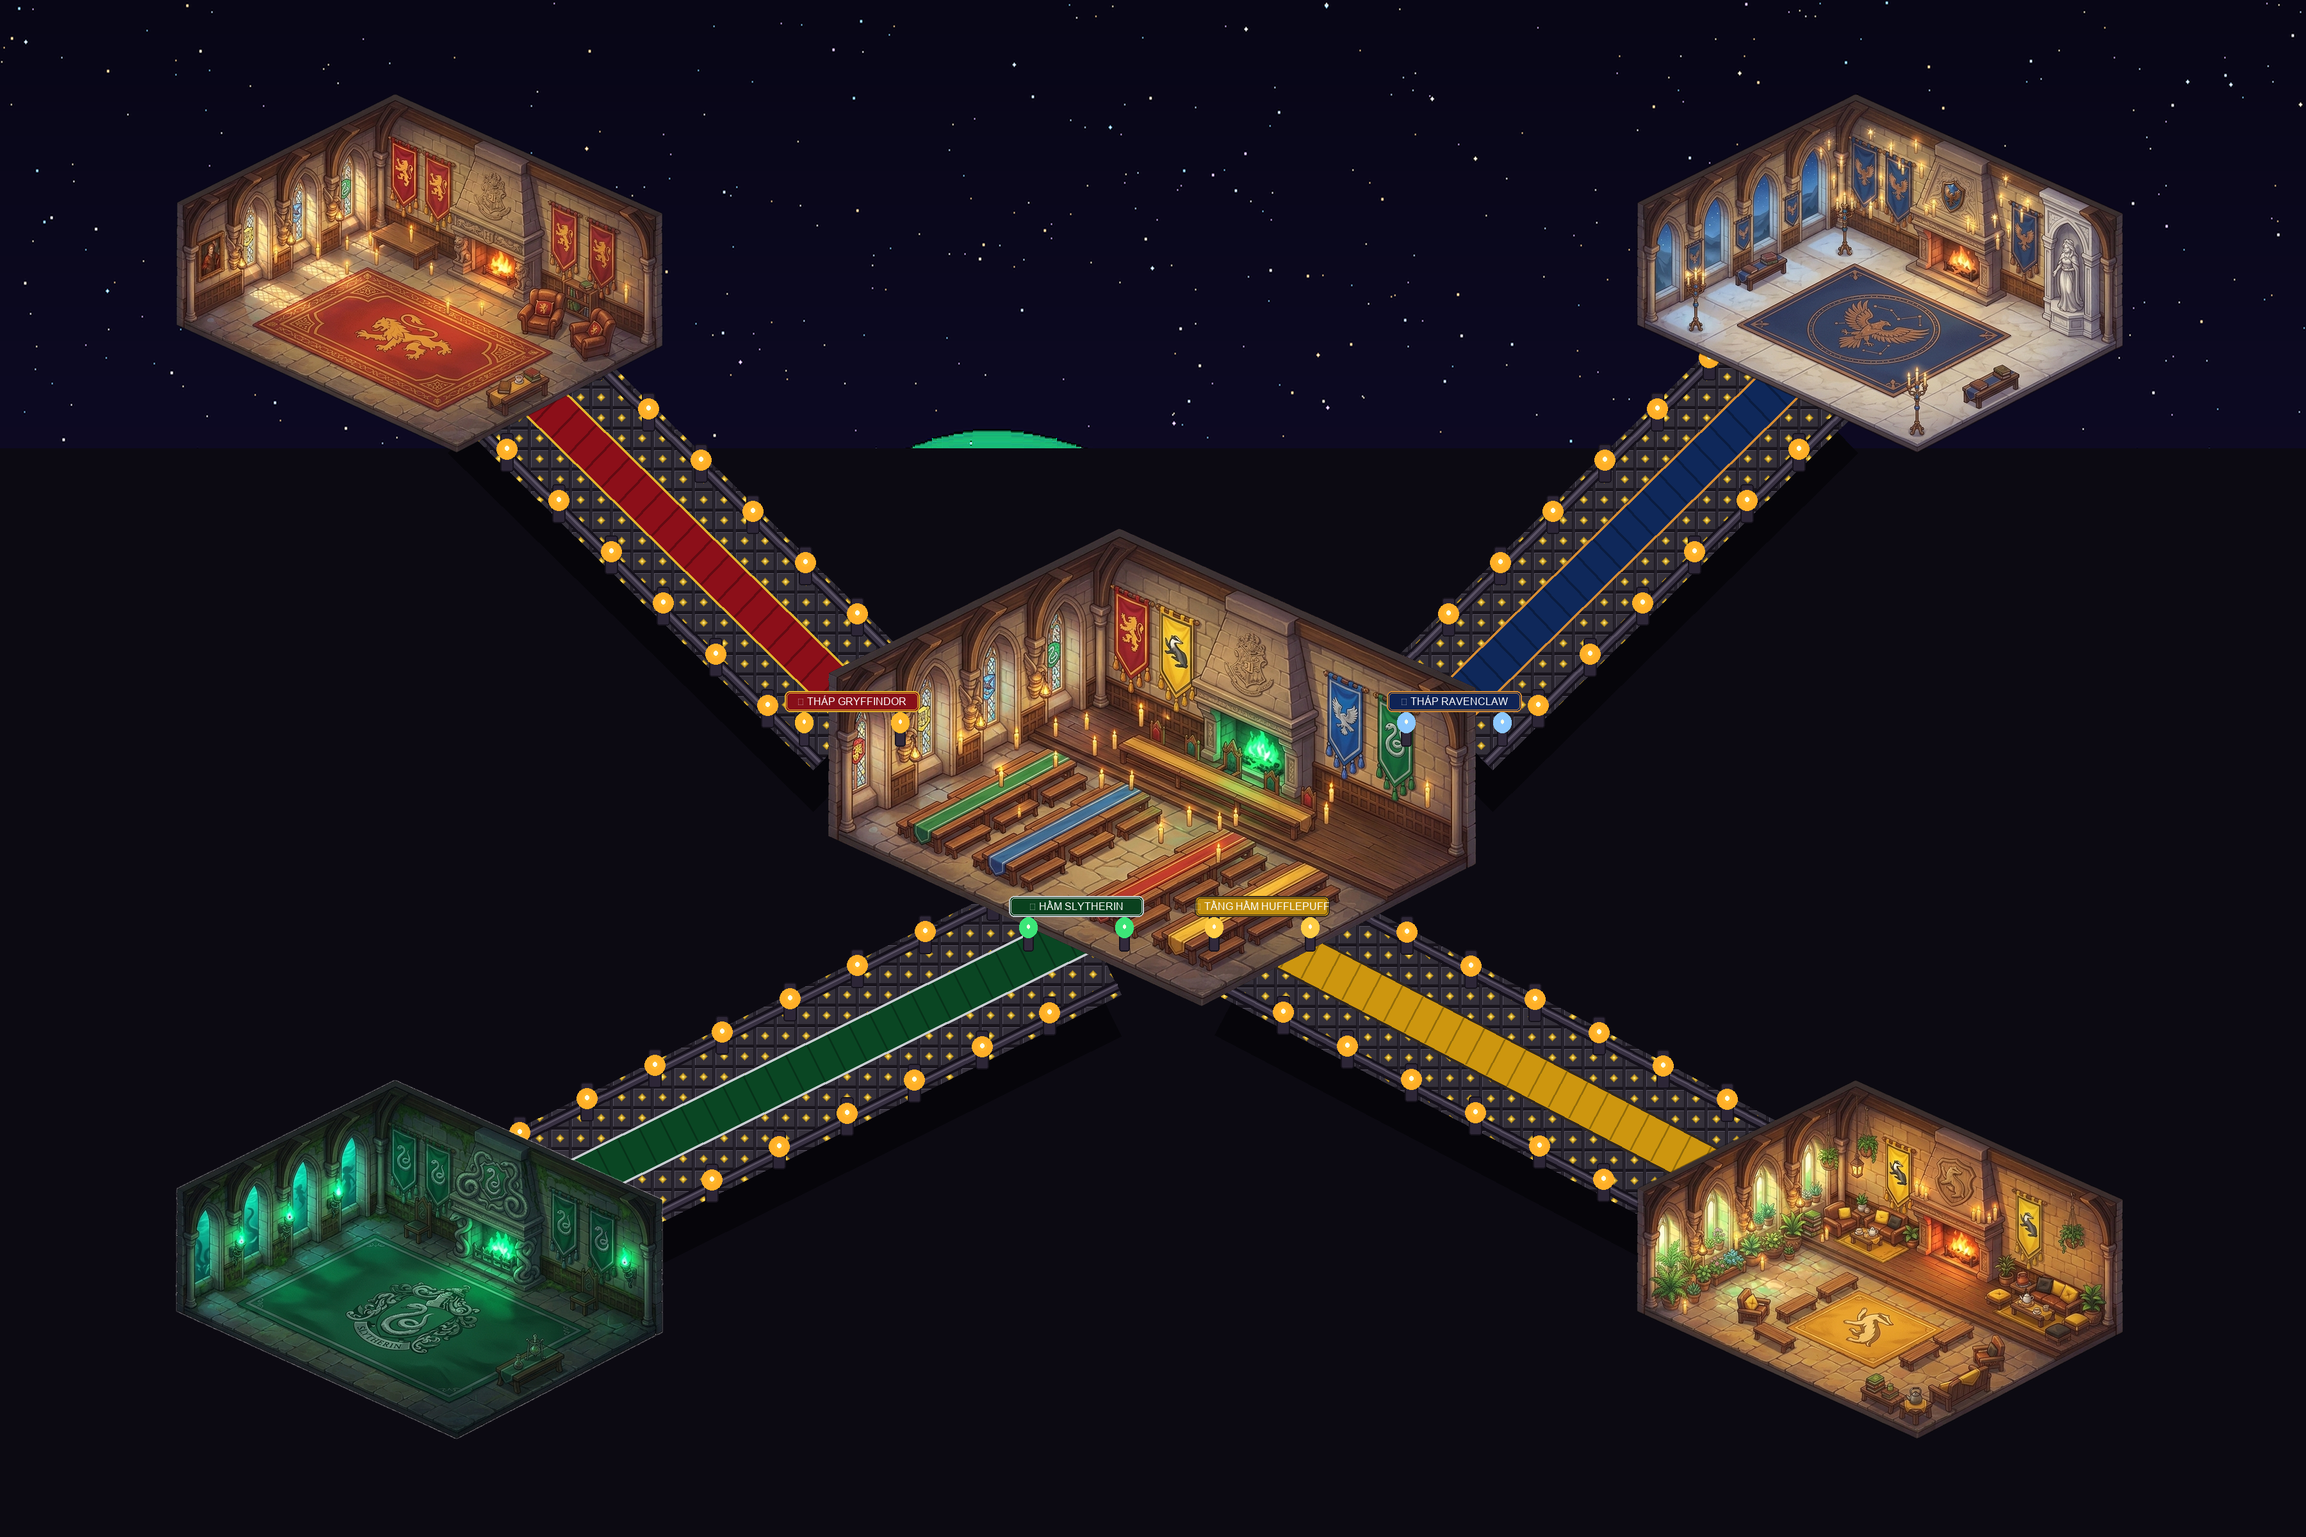
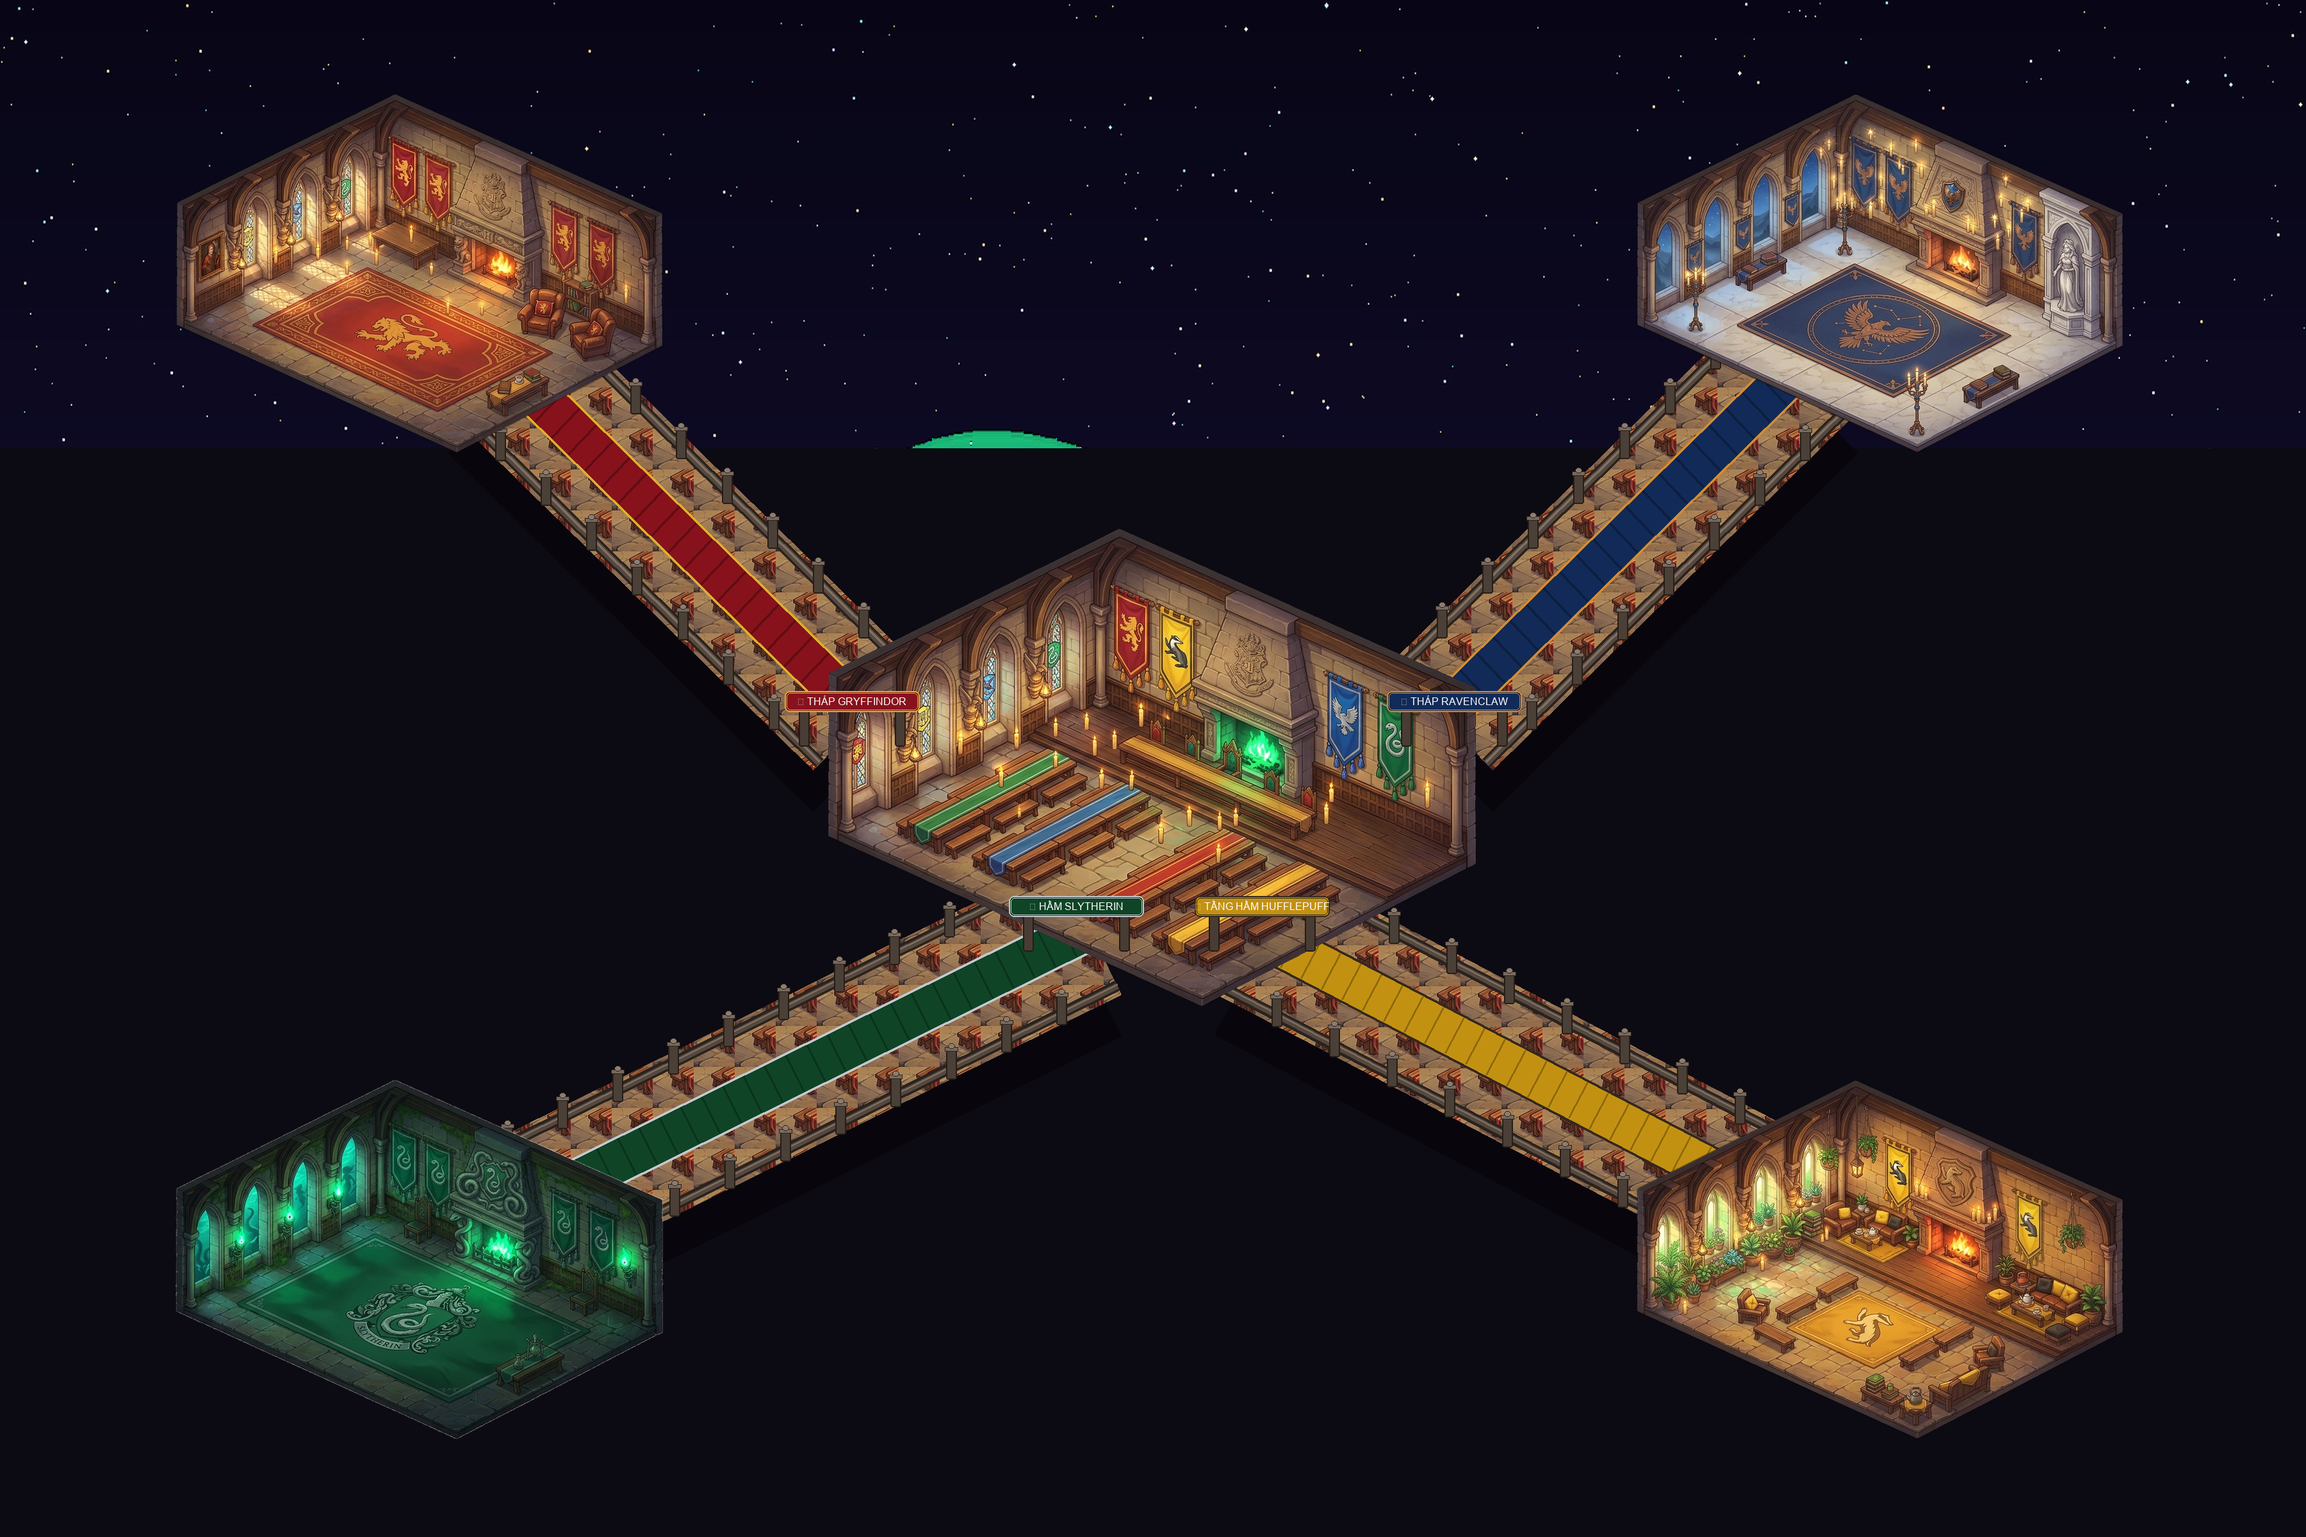
style: unify corridor stone art with Great Hall floor and remove all corridor candles

diff --git a/scripts/build_hub_and_spoke_final.py b/scripts/build_hub_and_spoke_final.py
@@ -1,10 +1,9 @@
 """
 Build Hub & Spoke Hogwarts Castle World Map (3600 x 2400 px)
-- Hub (Center, 100% scale): Great Hall (1376 x 768) - pristine genuine alpha mask, zero black cuts.
-- Spokes (4 Wings, 75% scale): Gryffindor (Top-Left), Slytherin (Bottom-Left),
-  Ravenclaw (Top-Right), Hufflepuff (Bottom-Right).
-- Connected by grand stone archways and flagstone corridors that penetrate deeply into each room.
-- Zero black gaps, zero disconnections, authentic medieval gothic aesthetic.
+- Floor & architecture: 100% unified with Great Hall & 4 House Common Rooms (sampled directly from castle stone).
+- Removed all corridor candles/torches per user request.
+- Clean medieval gothic stone balustrades, carved stone pillars & finials.
+- Fully connected: corridors penetrate deeply into each room, zero black voids.
 """
 
 import os
@@ -38,13 +37,12 @@ def get_clean_room(img, is_white=False):
     arr = np.array(rgba)
     
     if is_white:
-        # Slytherin has white background [250..255]
+        # Slytherin room has white background [225..255]
         mask = ~((arr[:, :, 0] > 225) & (arr[:, :, 1] > 225) & (arr[:, :, 2] > 225))
     else:
-        # Check if alpha channel already exists and is non-trivial
+        # If alpha already present and non-trivial
         if arr.shape[2] == 4 and np.any(arr[:, :, 3] == 0):
             return rgba
-        # Otherwise filter out pure black void
         mask = (arr[:, :, 0] > 14) | (arr[:, :, 1] > 14) | (arr[:, :, 2] > 14)
         
     mask_im = Image.fromarray((mask * 255).astype(np.uint8)).filter(ImageFilter.GaussianBlur(1.0))
@@ -52,7 +50,7 @@ def get_clean_room(img, is_white=False):
     return rgba
 
 def build_map():
-    print(f"Building Fully Connected Hogwarts Castle Map ({CW} x {CH} px)...")
+    print(f"Building Unified Hogwarts Castle Map ({CW} x {CH} px)...")
 
     # 1. Base Canvas with Starry Night Sky
     bg_night_path = os.path.join(BASE_DIR, 'client/public/assets/background/backdrop_night.png')
@@ -69,10 +67,10 @@ def build_map():
         alpha = int(min(255, (y - 700) / 600 * 240 + 15))
         draw.rectangle([0, y, CW, y + 1], fill=(12, 10, 18, alpha))
 
-    # 2. Flagstone Tile from FloorAndGround.png
-    fg_path = os.path.join(BASE_DIR, 'client/public/assets/map/FloorAndGround.png')
-    fg = Image.open(fg_path)
-    flag_tile = fg.crop((960, 192, 992, 224)).convert('RGBA')
+    # 2. Sample Authentic Stone Floor Directly from Great Hall
+    gh_raw = Image.open(os.path.join(BASE_DIR, 'client/public/assets/map/great_hall_25d.png')).convert('RGBA')
+    # 64x64 clean stone flagstone tile from Great Hall floor
+    gh_tile = gh_raw.crop((540, 580, 604, 644)).convert('RGBA')
 
     # Load TrueType font for Vietnamese support
     font_path = '/System/Library/Fonts/Supplemental/Arial.ttf'
@@ -80,7 +78,7 @@ def build_map():
         font_path = '/System/Library/Fonts/Helvetica.ttc'
     font_banner = ImageFont.truetype(font_path, 16)
 
-    # 3. Function to draw a grand castle corridor connecting two rooms
+    # 3. Draw Grand Castle Corridors (Stone balustrades, NO CANDLES, authentic castle stone floor)
     def draw_grand_corridor(p1, p2, width=200, carpet_color=(120, 20, 30), border_color=(210, 160, 40)):
         x1, y1 = p1
         x2, y2 = p2
@@ -105,9 +103,9 @@ def build_map():
         # 1. Bridge Drop Shadow (deep soft shadow underneath)
         shadow_offset_y = 65
         shadow_pts = [(p[0], p[1] + shadow_offset_y) for p in poly_pts]
-        draw.polygon(shadow_pts, fill=(6, 5, 10, 210))
+        draw.polygon(shadow_pts, fill=(8, 6, 12, 210))
         
-        # 2. Stone Walkway Mask & Textured Flagstone Fill
+        # 2. Stone Walkway Mask & Textured Flagstone Fill (Identical to Great Hall floor)
         corridor_mask = Image.new('L', (CW, CH), 0)
         mask_draw = ImageDraw.Draw(corridor_mask)
         mask_draw.polygon(poly_pts, fill=255)
@@ -118,13 +116,13 @@ def build_map():
         max_y = min(CH, int(max(p[1] for p in poly_pts)))
         
         texture_layer = Image.new('RGBA', (CW, CH), (0, 0, 0, 0))
-        for fx in range(min_x, max_x, 32):
-            for fy in range(min_y, max_y, 32):
-                texture_layer.paste(flag_tile, (fx, fy))
+        for fx in range(min_x, max_x, 64):
+            for fy in range(min_y, max_y, 64):
+                texture_layer.paste(gh_tile, (fx, fy))
                 
         world.paste(texture_layer, (0, 0), corridor_mask)
 
-        # B. Medieval Castle Parapets (Left & Right Railings)
+        # B. Medieval Castle Stone Balustrades (Clean stone railings, NO CANDLES)
         w_curb = width // 2
         for side in [-1, 1]:
             curb_x1 = int(x1 + side * w_curb * nx)
@@ -132,27 +130,24 @@ def build_map():
             curb_x2 = int(x2 + side * w_curb * nx)
             curb_y2 = int(y2 + side * w_curb * ny)
             
-            # Thick gothic stone rail
-            draw.line([(curb_x1, curb_y1), (curb_x2, curb_y2)], fill=(20, 16, 26, 255), width=18)
-            draw.line([(curb_x1, curb_y1), (curb_x2, curb_y2)], fill=(55, 48, 65, 255), width=10)
-            draw.line([(curb_x1, curb_y1 - 2), (curb_x2, curb_y2 - 2)], fill=(90, 82, 100, 255), width=3)
+            # Thick gothic carved limestone rail (matching castle wall stone palette)
+            draw.line([(curb_x1, curb_y1), (curb_x2, curb_y2)], fill=(42, 34, 28, 255), width=18)
+            draw.line([(curb_x1, curb_y1), (curb_x2, curb_y2)], fill=(85, 72, 62, 255), width=10)
+            draw.line([(curb_x1, curb_y1 - 2), (curb_x2, curb_y2 - 2)], fill=(128, 112, 100, 255), width=3)
             
-            # Carved stone pillars with torch sconces along the parapet
-            p_steps = max(2, int(dist / 110))
+            # Carved stone pillars & baluster caps along the parapet (NO CANDLES/TORCHES)
+            p_steps = max(2, int(dist / 95))
             for p_s in range(1, p_steps):
                 t = p_s / p_steps
                 px = int(x1 + dx * t + side * w_curb * nx)
                 py = int(y1 + dy * t + side * w_curb * ny)
                 
-                # Pillar base & cap
-                draw.rounded_rectangle([px - 10, py - 35, px + 10, py + 25], radius=4,
-                                       fill=(45, 38, 55, 255), outline=(22, 18, 28, 255), width=2)
-                draw.rectangle([px - 6, py - 12, px + 6, py - 4], fill=(26, 22, 32, 255))
-                
-                # Torch Flame & Ambient Glow Halo
-                draw.ellipse([px - 16, py - 26, px + 16, py + 6], fill=(255, 175, 40, 75))
-                draw.ellipse([px - 7, py - 18, px + 7, py - 4], fill=(255, 185, 45, 255))
-                draw.ellipse([px - 3, py - 15, px + 3, py - 8], fill=(255, 255, 230, 255))
+                # Stone pillar shaft
+                draw.rounded_rectangle([px - 8, py - 28, px + 8, py + 18], radius=3,
+                                       fill=(75, 64, 55, 255), outline=(38, 30, 24, 255), width=2)
+                # Carved stone top finial cap
+                draw.rectangle([px - 10, py - 32, px + 10, py - 26], fill=(120, 105, 94, 255), outline=(42, 34, 28, 255))
+                draw.ellipse([px - 5, py - 38, px + 5, py - 30], fill=(140, 125, 112, 255), outline=(42, 34, 28, 255))
 
         # C. Velvet Carpet Runner down the corridor center (width = 68px)
         c_half = 34
@@ -170,7 +165,7 @@ def build_map():
         draw.line([carpet_pts[0], carpet_pts[1]], fill=(*border_color, 255), width=4)
         draw.line([carpet_pts[3], carpet_pts[2]], fill=(*border_color, 255), width=4)
         
-        # Cross-stripes for textile realism
+        # Cross-stripes for rich textile depth
         stripe_steps = max(2, int(dist / 36))
         for s in range(1, stripe_steps):
             t = s / stripe_steps
@@ -187,29 +182,28 @@ def build_map():
     # Spoke 1: Great Hall (1350, 1120) -> Gryffindor Tower (780, 560)
     draw_grand_corridor(
         (1350, 1120), (780, 560),
-        width=200, carpet_color=(140, 15, 25), border_color=(225, 180, 45)
+        width=200, carpet_color=(135, 18, 28), border_color=(220, 175, 45)
     )
 
     # Spoke 2: Great Hall (1700, 1450) -> Slytherin Dungeon (750, 1920)
     draw_grand_corridor(
         (1700, 1450), (750, 1920),
-        width=200, carpet_color=(10, 70, 35), border_color=(200, 205, 210)
+        width=200, carpet_color=(15, 68, 38), border_color=(195, 200, 205)
     )
 
     # Spoke 3: Great Hall (2250, 1120) -> Ravenclaw Tower (2820, 560)
     draw_grand_corridor(
         (2250, 1120), (2820, 560),
-        width=200, carpet_color=(15, 40, 90), border_color=(215, 140, 50)
+        width=200, carpet_color=(18, 42, 88), border_color=(210, 140, 50)
     )
 
     # Spoke 4: Great Hall (1950, 1450) -> Hufflepuff Basement (2850, 1920)
     draw_grand_corridor(
         (1950, 1450), (2850, 1920),
-        width=200, carpet_color=(205, 150, 15), border_color=(50, 40, 30)
+        width=200, carpet_color=(195, 145, 18), border_color=(52, 40, 30)
     )
 
     # 5. Load and Process the 5 Rooms with Genuine Alpha Masks
-    gh_raw = Image.open(os.path.join(BASE_DIR, 'client/public/assets/map/great_hall_25d.png')).convert('RGBA')
     gry_raw = Image.open(os.path.join(MAP_V2_DIR, 'gryffindor_common_room_25d.png')).convert('RGBA')
     sly_raw = Image.open(os.path.join(MAP_V2_DIR, 'slytherin_common_room_25d.png')).convert('RGBA')
     rav_raw = Image.open(os.path.join(MAP_V2_DIR, 'ravenclaw_common_room_25d.png')).convert('RGBA')
@@ -230,24 +224,23 @@ def build_map():
     # 7. Paste Great Hall WITH ALPHA MASK (Seamless blend, zero opaque black box)
     world.paste(gh_clean, (gh_x, gh_y), gh_clean)
 
-    # 8. Grand Gothic Portal Archways at Corridor Entrances
+    # 8. Grand Gothic Portal Archways at Corridor Entrances (NO CANDLES)
     portals = [
-        # (Center X, Center Y, Width, Text, Sconce Color, Bg Color, Border Color)
-        (1330, 1140, '🦁 THÁP GRYFFINDOR', (255, 185, 45), (135, 15, 25), (225, 180, 45)),
-        (1680, 1460, '🐍 HẦM SLYTHERIN', (60, 230, 120), (10, 65, 30), (200, 205, 210)),
-        (2270, 1140, '🦅 THÁP RAVENCLAW', (140, 200, 255), (15, 35, 85), (215, 140, 50)),
-        (1970, 1460, '🦡 TẦNG HẦM HUFFLEPUFF', (255, 205, 70), (195, 145, 15), (50, 40, 30)),
+        (1330, 1140, '🦁 THÁP GRYFFINDOR', (135, 18, 28), (220, 175, 45)),
+        (1680, 1460, '🐍 HẦM SLYTHERIN', (15, 68, 38), (195, 200, 205)),
+        (2270, 1140, '🦅 THÁP RAVENCLAW', (18, 42, 88), (210, 140, 50)),
+        (1970, 1460, '🦡 TẦNG HẦM HUFFLEPUFF', (195, 145, 18), (52, 40, 30)),
     ]
 
-    for px, py, text, sconce_col, bg_col, border_col in portals:
-        # Two Stone Columns
+    for px, py, text, bg_col, border_col in portals:
+        # Two Carved Limestone Pillars (framing the doorway)
         for cx in [px - 75, px + 75]:
+            # Pillar column
             draw.rounded_rectangle([cx - 8, py - 40, cx + 8, py + 25], radius=4,
-                                   fill=(50, 42, 60, 255), outline=(22, 18, 28, 255), width=2)
-            # Torch Sconce
-            draw.ellipse([cx - 14, py - 28, cx + 14, py + 4], fill=(*sconce_col, 85))
-            draw.ellipse([cx - 6, py - 20, cx + 6, py - 6], fill=(*sconce_col, 255))
-            draw.ellipse([cx - 2, py - 17, cx + 2, py - 10], fill=(255, 255, 235, 255))
+                                   fill=(72, 60, 52, 255), outline=(36, 28, 22, 255), width=2)
+            # Stone capital finial
+            draw.rectangle([cx - 10, py - 45, cx + 10, py - 38], fill=(125, 110, 98, 255), outline=(36, 28, 22, 255))
+            draw.ellipse([cx - 5, py - 50, cx + 5, py - 42], fill=(145, 130, 118, 255), outline=(36, 28, 22, 255))
 
         # Carved Stone Arch Lintel Banner
         banner_w = 210
@@ -255,22 +248,22 @@ def build_map():
         by = py - 45
         draw.rounded_rectangle([px - banner_w // 2, by - banner_h // 2, px + banner_w // 2, by + banner_h // 2],
                                radius=8, fill=(*bg_col, 245), outline=border_col, width=2)
-        # Gold inner trim
+        # Inner metallic trim
         draw.rounded_rectangle([px - banner_w // 2 + 3, by - banner_h // 2 + 3, px + banner_w // 2 - 3, by + banner_h // 2 - 3],
                                radius=6, fill=None, outline=(*border_col, 160), width=1)
-        # Render Vietnamese Text cleanly
+        # Render clean Vietnamese text
         draw.text((px, by), text, font=font_banner, fill=(255, 255, 255, 255), anchor="mm")
 
     # 9. Save Output Map & Previews
     world.convert('RGB').save(OUTPUT_PATH, format='PNG', optimize=True)
-    print(f"Hub & Spoke Map saved successfully at {OUTPUT_PATH}!")
+    print(f"Unified Hogwarts Map saved successfully at {OUTPUT_PATH}!")
     print(f"File size: {os.path.getsize(OUTPUT_PATH) / (1024 * 1024):.2f} MB")
 
     preview = world.resize((900, 600), Image.Resampling.LANCZOS)
     preview.convert('RGB').save(PREVIEW_PATH)
     print(f"Preview saved to {PREVIEW_PATH}")
 
-    # Zoomed crop around Slytherin corridor (x: 600..1800, y: 1300..2100) to inspect connection
+    # Zoomed crop around Slytherin corridor (x: 600..1850, y: 1300..2150)
     crop_sly = world.crop((600, 1300, 1850, 2150)).convert('RGB')
     crop_sly.save(CROP_PREVIEW_PATH)
     print(f"Slytherin connection crop saved to {CROP_PREVIEW_PATH}")
